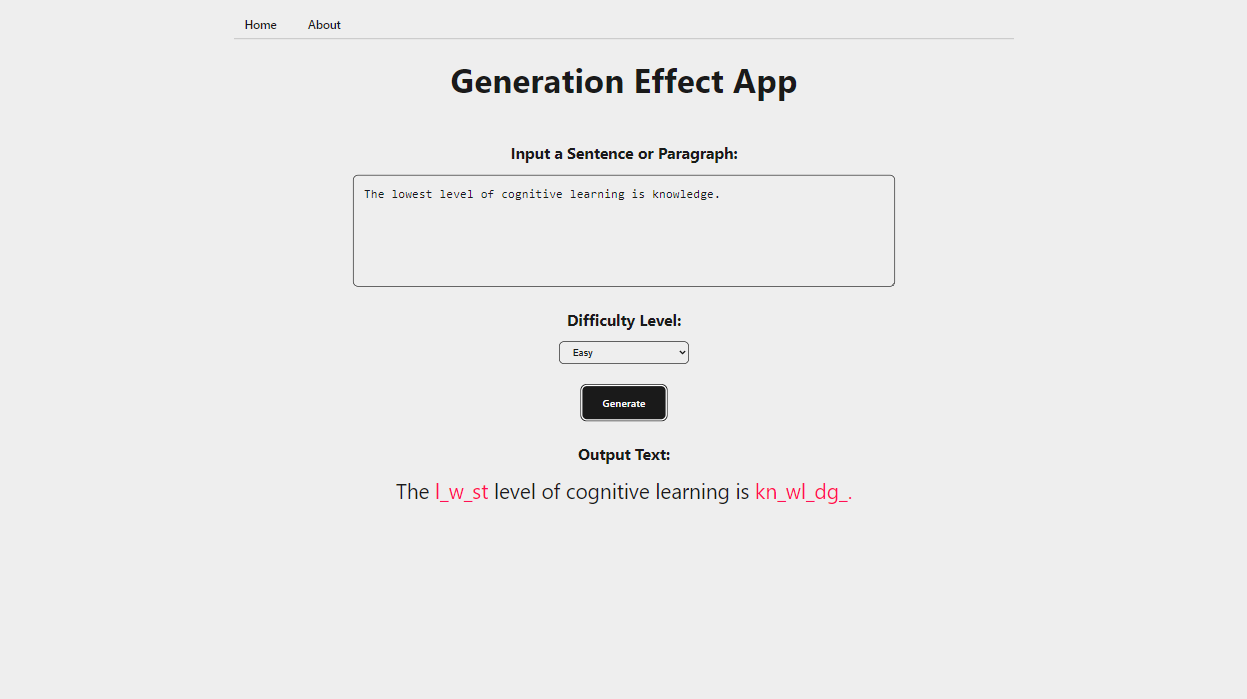
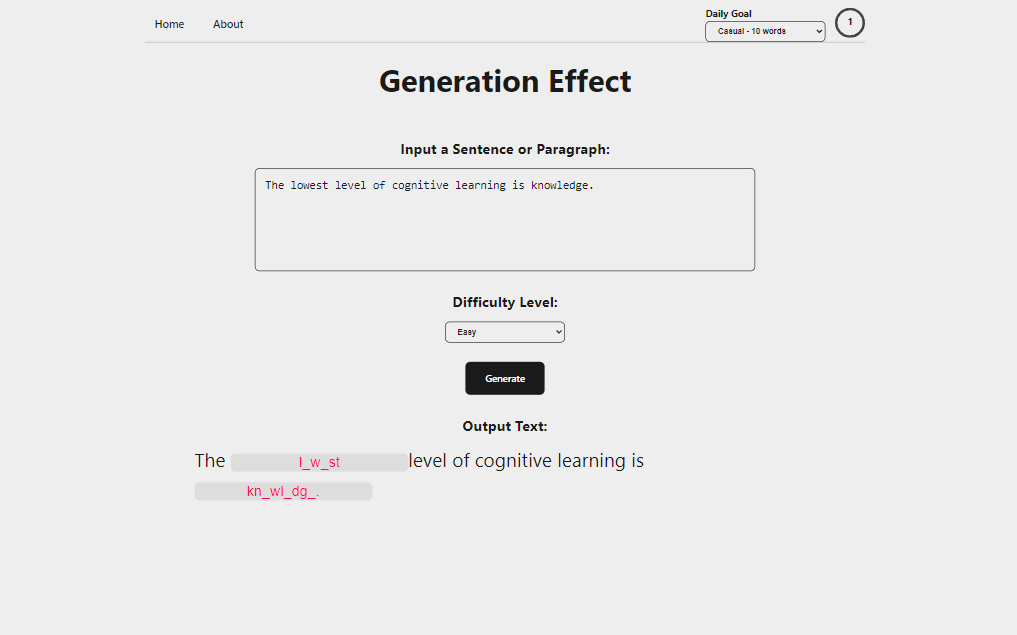
fix: readme.md

diff --git a/README.md b/README.md
@@ -35,6 +35,10 @@ The "generation effect" refers to a psychological phenomenon where actively crea
 
 ### Rules:
 
+**Daily Goal**
+
+- Pick a daily goal.
+
 **Input**:
 
 - Enter a sentence or paragraph.
@@ -50,6 +54,10 @@ The "generation effect" refers to a psychological phenomenon where actively crea
 **Practice**:
 
 - Try to decipher and understand the modified text.
+
+**Guess Words**:
+
+- Attempt to guess the number of words corresponding to your chosen daily goal.
 
 <br />
 
